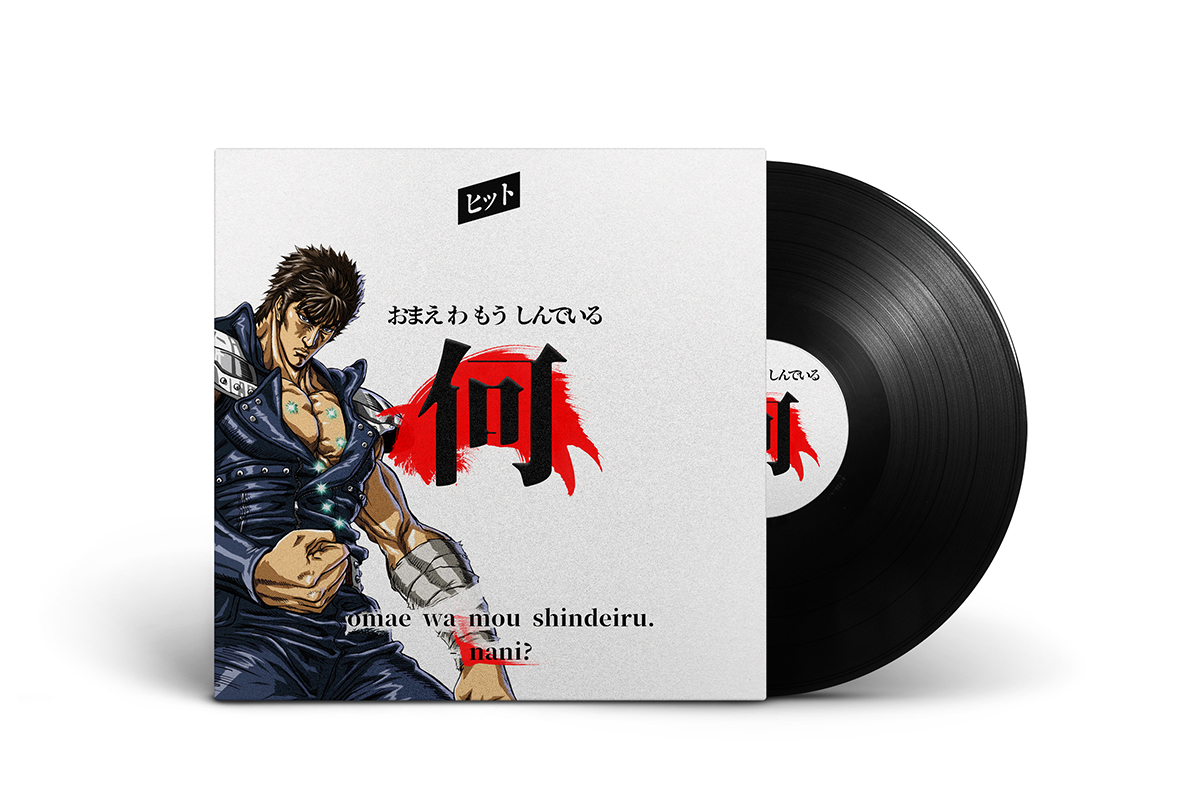
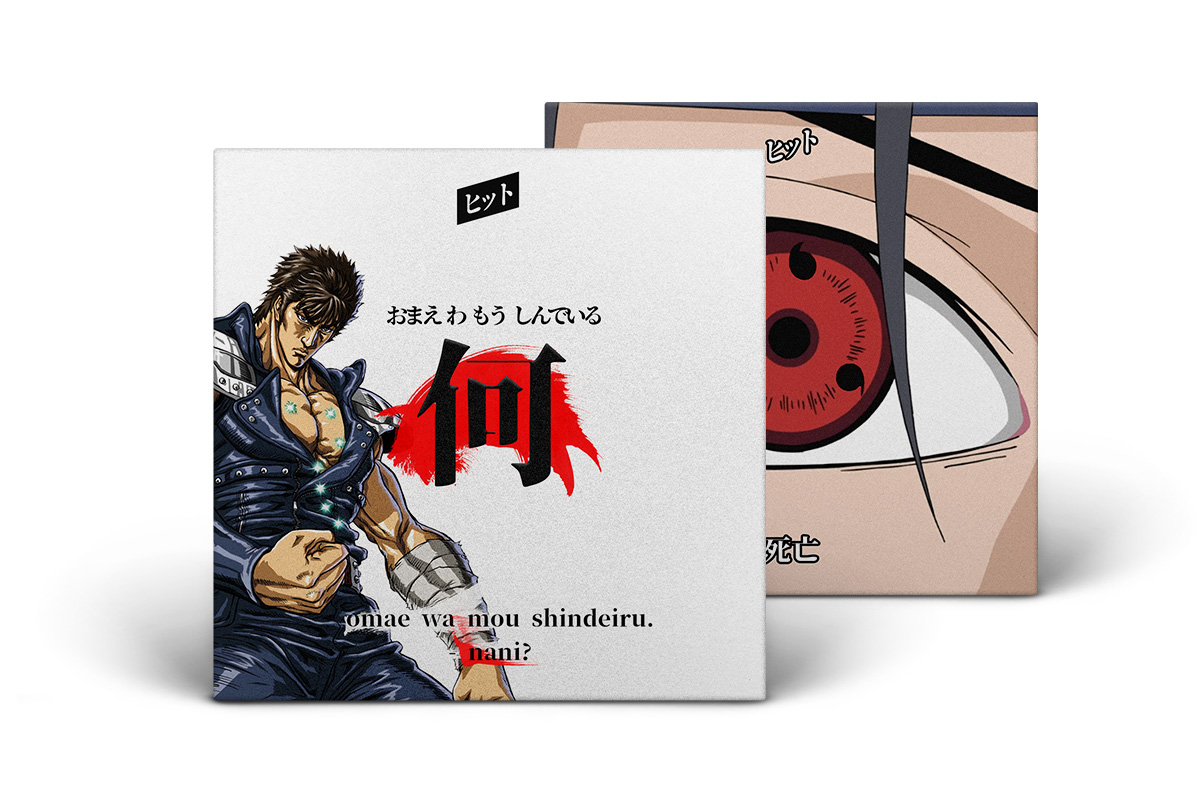
neue Bilder für Kategorie

Changed region(s): [[0.4317, 0.1245, 0.9558, 0.9029], [0.1542, 0.2802, 0.555, 0.8717], [0.37, 0.2179, 0.4317, 0.2802]]

diff --git a/index.html b/index.html
@@ -81,7 +81,7 @@
 
     
     <li class="grid-item" data-jkit="[show:delay=3000;speed=500;animation=fade]">
-      <img src="img/portfolio/1.jpg">
+      <img src="img/portfolio/1_alt.jpg">
         <a class="ajax-link" href="single.html">  
           <div class="grid-hover">
             <h1>ﾋｯﾄ (hitto) - DEATH</h1>
